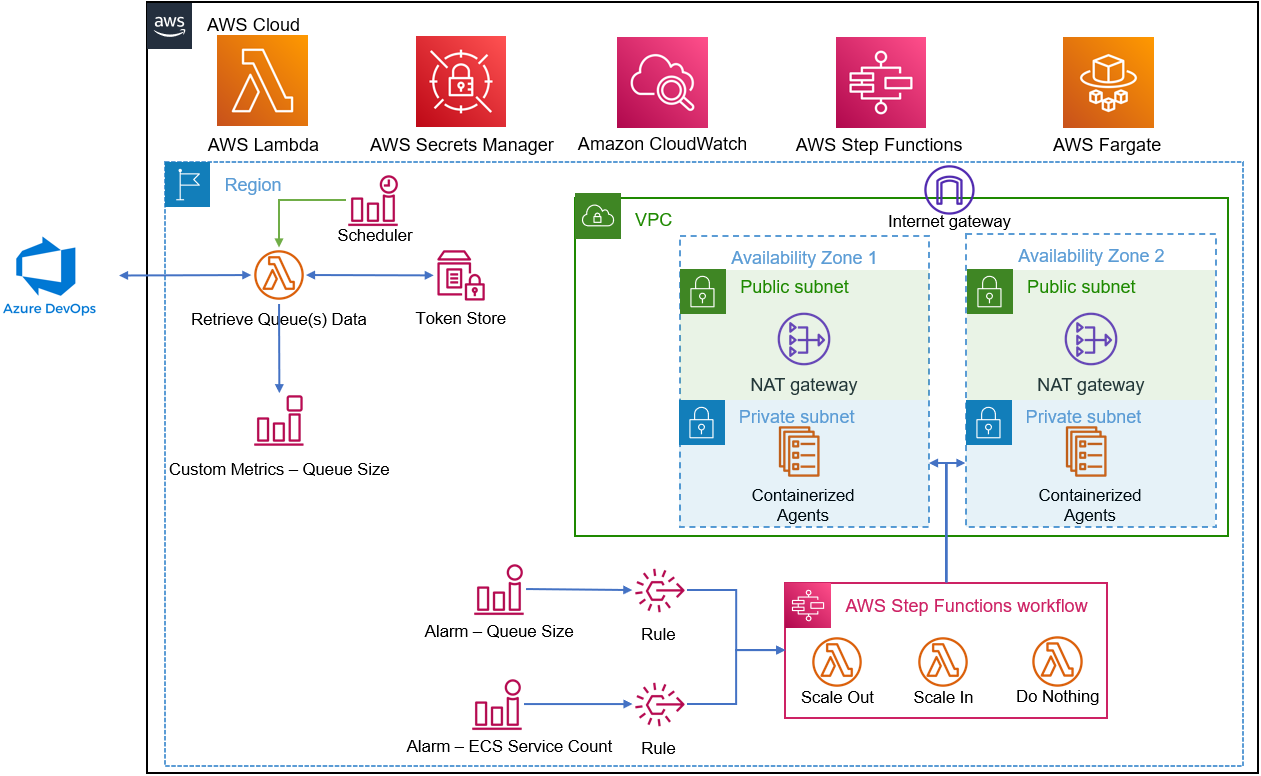
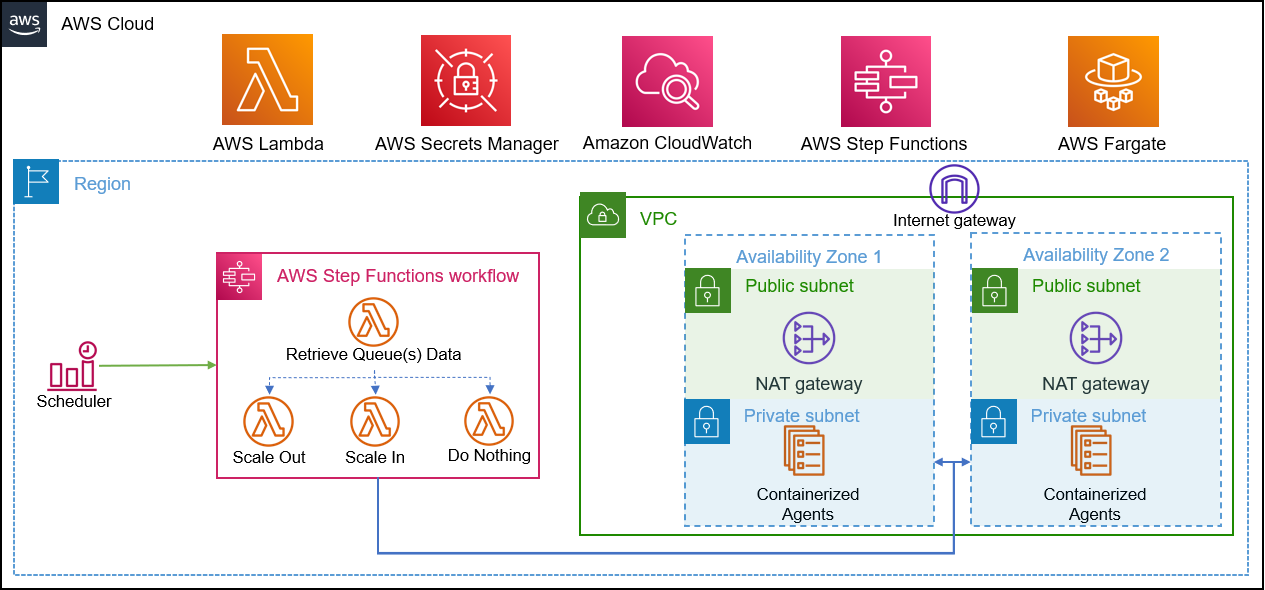
- Updated documentation & architecture \ - Workflow trigger moved to schedule \ - Alarms and event rules removed

Changed region(s): [[0.0, 0.0, 1.0, 1.0]]

diff --git a/aws/autoscaling-cicd-agents/README.md b/aws/autoscaling-cicd-agents/README.md
@@ -10,10 +10,10 @@ A solution to autoscale containerised build agents, dependent on Azure DevOps Qu
     - Cluster & Task Definition
     - ECR Repo
     - Docker file to build and push to ECR
-- No automated trigger
-- No state machine
-- No Alarms
-- No agent capacity monitoring
+- State machine to decide on scaling option
+    - Triggered by Cloudwatch scheduled at pre-defined intervals
+    - Scale in/out based on idle agents and queueing jobs
+
 
 ## Architecture
 ![Architecture Diagram](architecture01.png)
@@ -23,8 +23,43 @@ A solution to autoscale containerised build agents, dependent on Azure DevOps Qu
 ![Code and Visual Workflow Diagram](statemachine.png)
 
 
+## Queue Data Function
+![ADO Queue Data Retrieval Diagram](queuefunction.png)
+
+
+## Deregister Agent Function
+![ADO Agent Deregistration Diagram](killagents.png)
+
+## Cost Estimate - Retail Price, checked on 14/1/2022*
+### Assumptions
+- Workflow executes every 2 minutes
+- 100 Agent Jobs per Day
+    - 5 mins per job
+- Linux agent
+    - 0.25 CPU
+    - 512MB Memory
+- Existing VPC and networking resources
+- Single agent image, stored in ECR
+- Free Tier included
+- Hosted in us-east-1
+
+| Service | Upfront Costs | Monthly Costs | First 12 Months | Currency | Summary |
+| --- | --- | --- | --- | --- | --- |
+| Step Functions - Express Workflows | 0 | 0.09 | 1.08 | USD | Duration of each workflow (3000), Memory consumed by each workflow (64 MB), Workflow requests (21600 per month) |
+| AWS Lambda | 0 | 0 | 0 | USD | Architecture (x86), Architecture (x86), Number of requests (129600 per month) |
+| AWS Fargate | 0 | 3.38 | 40.56 | USD | Operating system (Linux), CPU Architecture (x86), Average duration (5 minutes), Number of tasks or pods (100 per day), Amount of ephemeral storage allocated for Amazon ECS (20 GB) |
+| AWS Elastic Container Registry | 0 | 1 | 12 | USD | Data transfer cost (0), Amount of data stored (10 GB per month) |
+| AWS Secrets Manager | 0 | 0 | 0.51 | USD | Number of secrets (1), Average duration of each secret (30 days), Number of API calls (21600 per month) |
+| AWS Parameter Store | 0 | 0 | 0 | USD | Standard parameters (1), Frequency of API interactions per parameter (30 per hour) |
+| AWS Cloudwatch | 0 | 1.032 | 12.38 | USD | Number of Metrics (includes detailed and custom metrics) (2), Number of other API requests (43200) |
+|  |  |  |  |  |  |
+| Total | 0 | 6.01 | 72.14 | USD |  |
+
+*These are only an estimate of potential AWS fees and doesn't include any taxes that might apply. Your actual fees depend on a variety of factors, including your actual usage of AWS services. [Do your own calculations](https://calculator.aws/#/estimate) and be prepared to accept the financial ask, before using.
+
+
 ## Notes:
-- Workflow is triggered if queue count is consistently above baseline or service count is consistently above baseline
+- Workflow is triggered on a schedule.  Originally, triggered by CW event, but this method is more reliable and cost effective
 - Supports multiple agent queues, configurable by json files in [config directory](src/ado_queue_function/config/)
 - Max service count influenced by licenses held for self-hosted agents in Azure DevOps <insert links to dock>
 - Agents are immutable and will terminate after each execution
@@ -81,20 +116,32 @@ Outputs:
 
 | Name | Type |
 |------|------|
-| aws_iam_policy.ado_queue_metrics | [aws_iam_policy](https://registry.terraform.io/providers/hashicorp/aws/latest/docs/resources/iam_policy) |
-| aws_iam_role_policy_attachment.ado_queue_metrics | [aws_iam_role_policy_attachment](https://registry.terraform.io/providers/hashicorp/aws/latest/docs/resources/iam_role_policy_attachment) |
+| module.queue001_workflow.aws_cloudwatch_log_group.ado_agent_logs | [aws_cloudwatch_log_group](https://registry.terraform.io/providers/hashicorp/aws/latest/docs/resources/cloudwatch_log_group)  |
+| module.queue001_workflow.aws_ssm_parameter.ado_pat | [aws_ssm_parameter](https://registry.terraform.io/providers/hashicorp/aws/latest/docs/resources/ssm_parameter) |
+| module.queue001_workflow.aws_iam_role.sfn_execution | [aws_iam_role](https://registry.terraform.io/providers/hashicorp/aws/latest/docs/resources/iam_role) |
+| module.queue001_workflow.aws_iam_role.cloudwatch_sfn_execution | [aws_iam_role](https://registry.terraform.io/providers/hashicorp/aws/latest/docs/resources/iam_role) |
+| module.ado_deregister_agents_function.aws_iam_role.lambda_execution | [aws_iam_role](https://registry.terraform.io/providers/hashicorp/aws/latest/docs/resources/iam_role) |
 | aws_secretsmanager_secret.adopat | [aws_secretsmanager_secret](https://registry.terraform.io/providers/hashicorp/aws/latest/docs/resources/secretsmanager_secret) |
+| module.queue001_workflow.aws_ecr_repository.adoagent | [aws_ecr_repository](https://registry.terraform.io/providers/hashicorp/aws/latest/docs/resources/ecr_repository) |
+| module.queue001_workflow.aws_kms_key.agent_data | [aws_kms_key](https://registry.terraform.io/providers/hashicorp/aws/latest/docs/resources/kms_key) |
+| module.queue001_workflow.aws_cloudwatch_log_group.scaling_workflow | [aws_cloudwatch_log_group](https://registry.terraform.io/providers/hashicorp/aws/latest/docs/resources/cloudwatch_log_group)  |
 | module.ado_queue_function.aws_iam_role.lambda_execution | [aws_iam_role](https://registry.terraform.io/providers/hashicorp/aws/latest/docs/resources/iam_role) |
+| module.scaling_decider_function.aws_iam_role.lambda_execution | [aws_iam_role](https://registry.terraform.io/providers/hashicorp/aws/latest/docs/resources/iam_role) |
+| module.queue001_workflow.aws_cloudwatch_event_rule.ado_scaling_workflow | [aws_cloudwatch_event_rule](https://registry.terraform.io/providers/hashicorp/aws/latest/docs/resources/cloudwatch_event_rule) |
+| module.queue001_workflow.aws_iam_role.agent_task_role | [aws_iam_role](https://registry.terraform.io/providers/hashicorp/aws/latest/docs/resources/iam_role) |
+| module.queue001_workflow.aws_iam_role_policy.workflow_execution_policy | [aws_iam_role_policy](https://registry.terraform.io/providers/hashicorp/aws/latest/docs/resources/iam_role_policy) |
+| module.queue001_workflow.aws_ecs_cluster.ado_agent_pool | [aws_ecs_cluster](https://registry.terraform.io/providers/hashicorp/aws/latest/docs/resources/ecs_cluster) |
+| module.scaling_decider_function.aws_lambda_function.function | [aws_lambda_function](https://registry.terraform.io/providers/hashicorp/aws/latest/docs/resources/lambda_function) |
+| module.common_dependencies.aws_lambda_layer_version.lambda_dependencies | [aws_lambda_layer_version](https://registry.terraform.io/providers/hashicorp/aws/latest/docs/resources/lambda_layer_version) |
+| module.ado_deregister_agents_function.aws_lambda_function.function | [aws_lambda_function](https://registry.terraform.io/providers/hashicorp/aws/latest/docs/resources/lambda_function) |
 | module.ado_queue_function.aws_lambda_function.function | [aws_lambda_function](https://registry.terraform.io/providers/hashicorp/aws/latest/docs/resources/lambda_function) |
-| aws_iam_policy.agent_service_metrics | [aws_iam_policy](https://registry.terraform.io/providers/hashicorp/aws/latest/docs/resources/iam_policy) |
-| aws_iam_role_policy_attachment.agent_service_metrics | [aws_iam_role_policy_attachment](https://registry.terraform.io/providers/hashicorp/aws/latest/docs/resources/iam_role_policy_attachment) |
-| module.service_metrics_function.aws_iam_role.lambda_execution | [aws_iam_role](https://registry.terraform.io/providers/hashicorp/aws/latest/docs/resources/iam_role) |
-| module.service_metrics_function.aws_lambda_function.function | [aws_lambda_function](https://registry.terraform.io/providers/hashicorp/aws/latest/docs/resources/lambda_function) |
-| module.queue_001_cluster.aws_cloudwatch_log_group.ado_agent_logs | [aws_cloudwatch_log_group](https://registry.terraform.io/providers/hashicorp/aws/latest/docs/resources/cloudwatch_log_group)  |
-| module.queue_001_cluster.aws_ecs_cluster.ado_agent_pool | [aws_ecs_cluster](https://registry.terraform.io/providers/hashicorp/aws/latest/docs/resources/ecs_cluster) |
-| module.queue_001_cluster.aws_ecs_task_definition.ado_agent_task | [aws_ecs_task_definition](https://registry.terraform.io/providers/hashicorp/aws/latest/docs/resources/ecs_task_definition) |
-| module.queue_001_cluster.aws_iam_role.agent_task_role |  [aws_iam_role](https://registry.terraform.io/providers/hashicorp/aws/latest/docs/resources/iam_role) |
-| module.queue_001_cluster.aws_iam_role_policy.agent_task_execution_policy | [aws_iam_role_policy](https://registry.terraform.io/providers/hashicorp/aws/latest/docs/resources/iam_role_policy) |
-| module.queue_001_cluster.aws_kms_key.agent_data | [aws_kms_key](https://registry.terraform.io/providers/hashicorp/aws/latest/docs/resources/kms_key) |
-| module.queue_001_cluster.aws_ssm_parameter.ado_pat | [aws_ssm_parameter](https://registry.terraform.io/providers/hashicorp/aws/latest/docs/resources/ssm_parameter) |
-| aws_ecr_repository.adoagent | [aws_ecr_repository](https://registry.terraform.io/providers/hashicorp/aws/latest/docs/resources/ecr_repository) |
+| module.queue001_workflow.aws_iam_role_policy.agent_task_execution_policy | [aws_iam_role_policy](https://registry.terraform.io/providers/hashicorp/aws/latest/docs/resources/iam_role_policy) |
+| module.queue001_workflow.aws_ecs_task_definition.ado_agent_task | [aws_ecs_task_definition](https://registry.terraform.io/providers/hashicorp/aws/latest/docs/resources/ecs_task_definition) |
+| aws_security_group.ado_agent | [aws_security_group](https://registry.terraform.io/providers/hashicorp/aws/latest/docs/resources/security_group) |
+| aws_iam_policy.ado_queue_metrics | [aws_iam_policy](https://registry.terraform.io/providers/hashicorp/aws/latest/docs/resources/iam_policy) |
+| module.queue001_workflow.aws_sfn_state_machine.scaling_queue | [aws_sfn_state_machine](https://registry.terraform.io/providers/hashicorp/aws/latest/docs/resources/sfn_state_machine) |
+| aws_iam_role_policy_attachment.ado_deregister_agents_function | [aws_iam_role_policy_attachment](https://registry.terraform.io/providers/hashicorp/aws/latest/docs/resources/iam_role_policy_attachment) |
+| aws_iam_role_policy_attachment.scaling_decider_function | [aws_iam_role_policy_attachment](https://registry.terraform.io/providers/hashicorp/aws/latest/docs/resources/iam_role_policy_attachment) |
+| aws_iam_role_policy_attachment.ado_queue_metrics | [aws_iam_role_policy_attachment](https://registry.terraform.io/providers/hashicorp/aws/latest/docs/resources/iam_role_policy_attachment) |
+| module.queue001_workflow.aws_iam_role_policy.cloudwatch_sfn_execution | [aws_iam_role_policy](https://registry.terraform.io/providers/hashicorp/aws/latest/docs/resources/iam_role_policy) |
+| module.queue001_workflow.aws_cloudwatch_event_target.sfn | [aws_cloudwatch_event_target](https://registry.terraform.io/providers/hashicorp/aws/latest/docs/resources/cloudwatch_event_target) |
